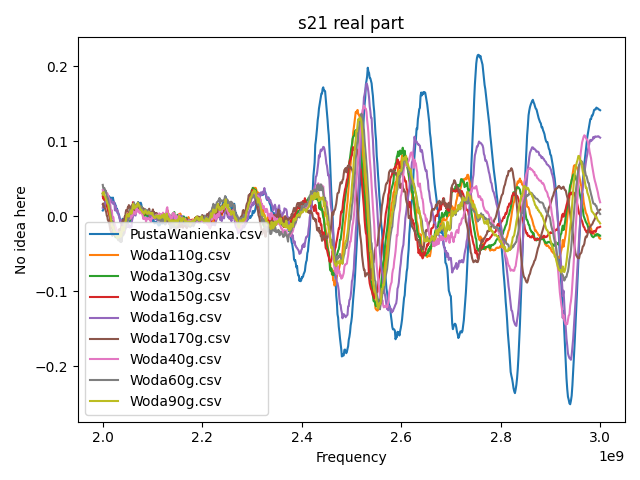
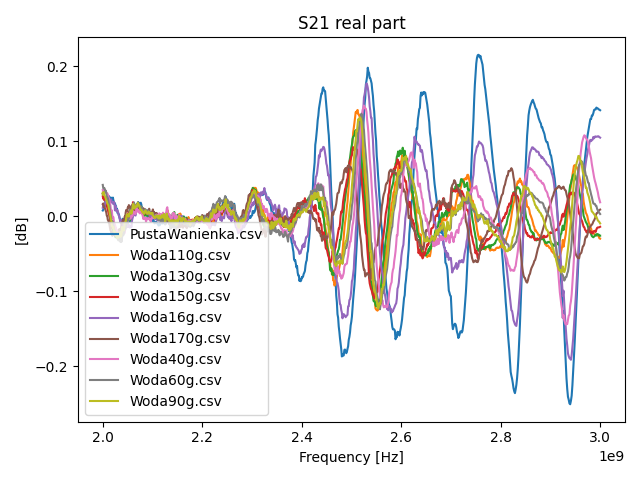
all plot and code corrections

Changed region(s): [[0.0, 0.4062, 0.0625, 0.5625], [0.4688, 0.0312, 0.6562, 0.0625], [0.4688, 0.9375, 0.625, 0.9688]]

diff --git a/main.py b/main.py
@@ -1,3 +1,6 @@
+import enum
+import math
+
 import pandas as pd
 import numpy as np
 import matplotlib.pyplot as plt
@@ -11,15 +14,25 @@ S21_REAL = 'S21-S-Real'
 S21_IMAG = 'S21-S-Imaginary'
 
 
-def plot_s11_real(all_the_data: list[pd.DataFrame], labels=list[str]):
-    title = "s11 real part"
-    plt.xlabel("Frequency")
-    plt.ylabel("No idea here")
+class Connection(enum.Enum):
+    S11 = "S11"
+    S21 = "S21"
+
+
+def plot_real(connection: Connection, all_the_data: list[pd.DataFrame], labels=list[str]):
+    title = f"{str(connection.value)} real part"
+    plt.xlabel("Frequency [Hz]")
+    plt.ylabel("[dB]")
     plt.title(title)
     x_axis = all_the_data[0][FREQUENCY].values.tolist()
 
+    if connection == Connection.S11:
+        column_name = S11_REAL
+    elif connection == Connection.S21:
+        column_name = S21_REAL
+
     for data, label in zip(all_the_data, labels):
-        y_values = data[S11_REAL].values.tolist()
+        y_values = data[column_name].values.tolist()
         plt.plot(x_axis, y_values, label=label)
 
     plt.legend()
@@ -28,15 +41,80 @@ def plot_s11_real(all_the_data: list[pd.DataFrame], labels=list[str]):
     plt.show()
 
 
-def plot_s21_real(all_the_data: list[pd.DataFrame], labels=list[str]):
-    title = "s21 real part"
-    plt.xlabel("Frequency")
-    plt.ylabel("No idea here")
+def plot_imag(connection: Connection, all_the_data: list[pd.DataFrame], labels=list[str]):
+    title = f"{str(connection.value)} imaginary part"
+    plt.xlabel("Frequency [Hz]")
+    plt.ylabel("[dB]")
     plt.title(title)
     x_axis = all_the_data[0][FREQUENCY].values.tolist()
 
+    if connection == Connection.S11:
+        column_name = S11_IMAG
+    elif connection == Connection.S21:
+        column_name = S21_IMAG
+
     for data, label in zip(all_the_data, labels):
-        y_values = data[S21_REAL].values.tolist()
+        y_values = data[column_name].values.tolist()
+        plt.plot(x_axis, y_values, label=label)
+
+    plt.legend()
+    plt.tight_layout()
+    plt.savefig(f'{title}.png')
+    plt.show()
+
+
+# magnitude [dB] = 20 * Log(sqr(Re^2 + Im^2))
+def magnitude(real, imag):
+    return 20 * math.log(math.sqrt(real ** 2 + imag ** 2))
+
+
+def plot_magnitude(connection: Connection, all_the_data: list[pd.DataFrame], labels=list[str]):
+    title = f"{str(connection.value)} magnitude"
+    plt.xlabel("Frequency [Hz]")
+    plt.ylabel("[dB]")
+    plt.title(title)
+    x_axis = all_the_data[0][FREQUENCY].values.tolist()
+
+    if connection == Connection.S11:
+        real_column_name = S11_REAL
+        imag_column_name = S11_IMAG
+    elif connection == Connection.S21:
+        real_column_name = S21_REAL
+        imag_column_name = S21_IMAG
+
+    for data, label in zip(all_the_data, labels):
+        y_values = [magnitude(r, i) for r, i in
+                    zip(data[real_column_name].values.tolist(), data[imag_column_name].values.tolist())]
+        plt.plot(x_axis, y_values, label=label)
+
+    plt.legend()
+    plt.tight_layout()
+    plt.savefig(f'{title}.png')
+    plt.show()
+
+
+# phase = arctan(Im / Re)
+def phase(real, imag):
+    return math.atan(imag / real)
+
+
+def plot_phase(connection: Connection, all_the_data: list[pd.DataFrame], labels=list[str]):
+    title = f"{str(connection.value)} phase"
+    plt.xlabel("Frequency [Hz]")
+    plt.ylabel("[dB]")
+    plt.title(title)
+    x_axis = all_the_data[0][FREQUENCY].values.tolist()
+
+    if connection == Connection.S11:
+        real_column_name = S11_REAL
+        imag_column_name = S11_IMAG
+    elif connection == Connection.S21:
+        real_column_name = S21_REAL
+        imag_column_name = S21_IMAG
+
+    for data, label in zip(all_the_data, labels):
+        y_values = [phase(r, i) for r, i in
+                    zip(data[real_column_name].values.tolist(), data[imag_column_name].values.tolist())]
         plt.plot(x_axis, y_values, label=label)
 
     plt.legend()
@@ -72,5 +150,12 @@ if __name__ == '__main__':
 
     print(f"Number of loaded files: {len(all_the_data)}")
 
-    plot_s11_real(all_the_data, onlyfiles)
-    plot_s21_real(all_the_data, onlyfiles)
+    plot_real(Connection.S11, all_the_data, onlyfiles)
+    plot_imag(Connection.S11, all_the_data, onlyfiles)
+    plot_magnitude(Connection.S11, all_the_data, onlyfiles)
+    plot_phase(Connection.S11, all_the_data, onlyfiles)
+
+    plot_real(Connection.S21, all_the_data, onlyfiles)
+    plot_imag(Connection.S21, all_the_data, onlyfiles)
+    plot_magnitude(Connection.S21, all_the_data, onlyfiles)
+    plot_phase(Connection.S21, all_the_data, onlyfiles)

diff --git a/README.md b/README.md
@@ -16,5 +16,13 @@ Script is written and tested using python 3.10
 
 Example plots:
 
-![s11](assets/s11 real part.png)
-![s21](assets/s21 real part.png)
+
+![S11](assets/S11%20imaginary%20part.png)
+![S11](assets/S11%20real%20part.png)
+![S11](assets/S11%20magnitude.png)
+![S11](assets/S11%20phase.png)
+
+![S21](assets/S21%20imaginary%20part.png)
+![S21](assets/S21%20real%20part.png)
+![S21](assets/S21%20magnitude.png)
+![S21](assets/S21%20phase.png)
